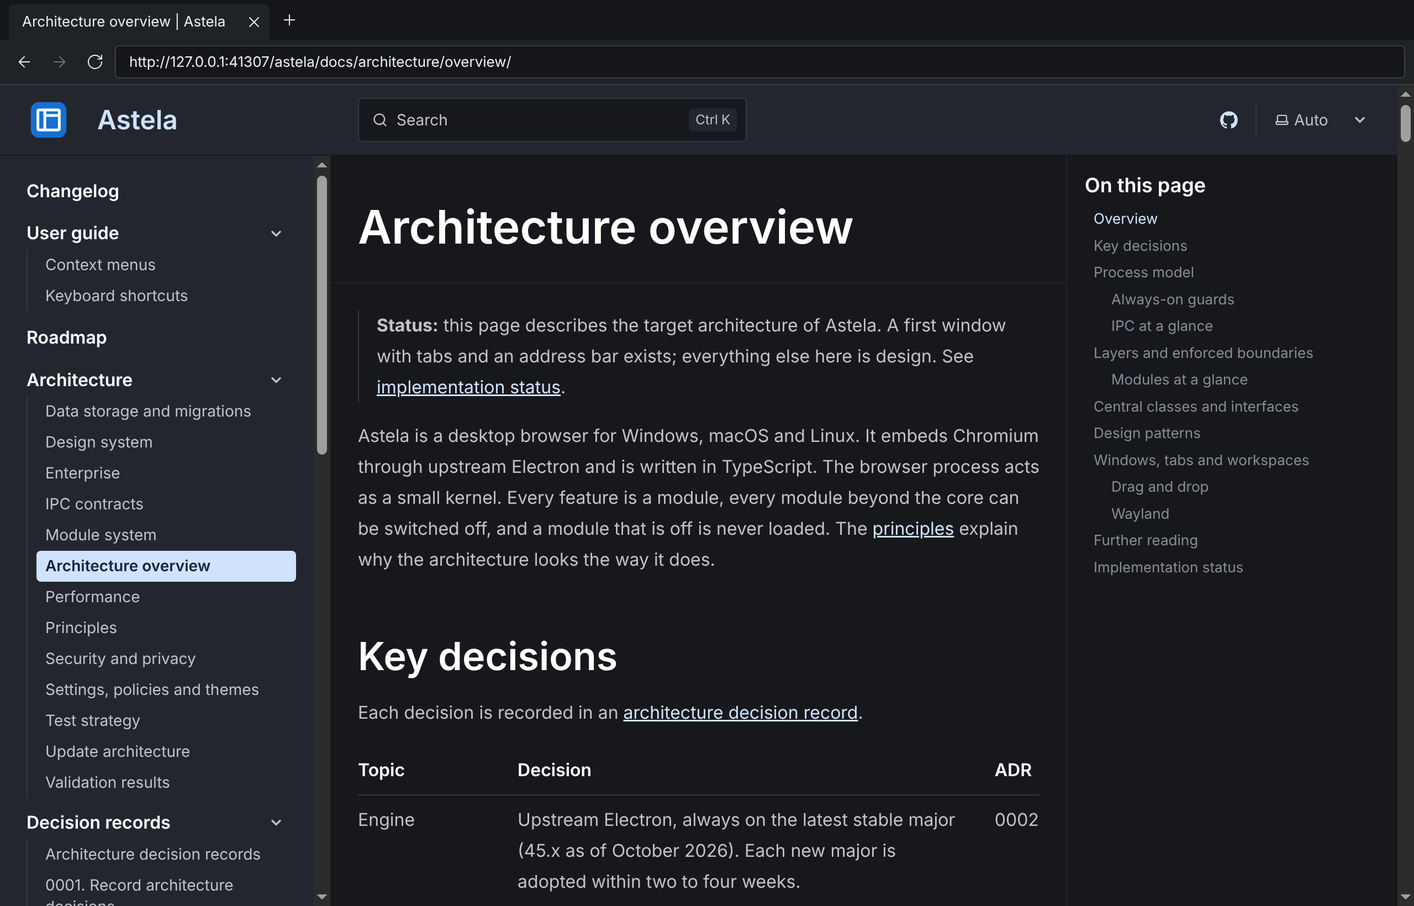
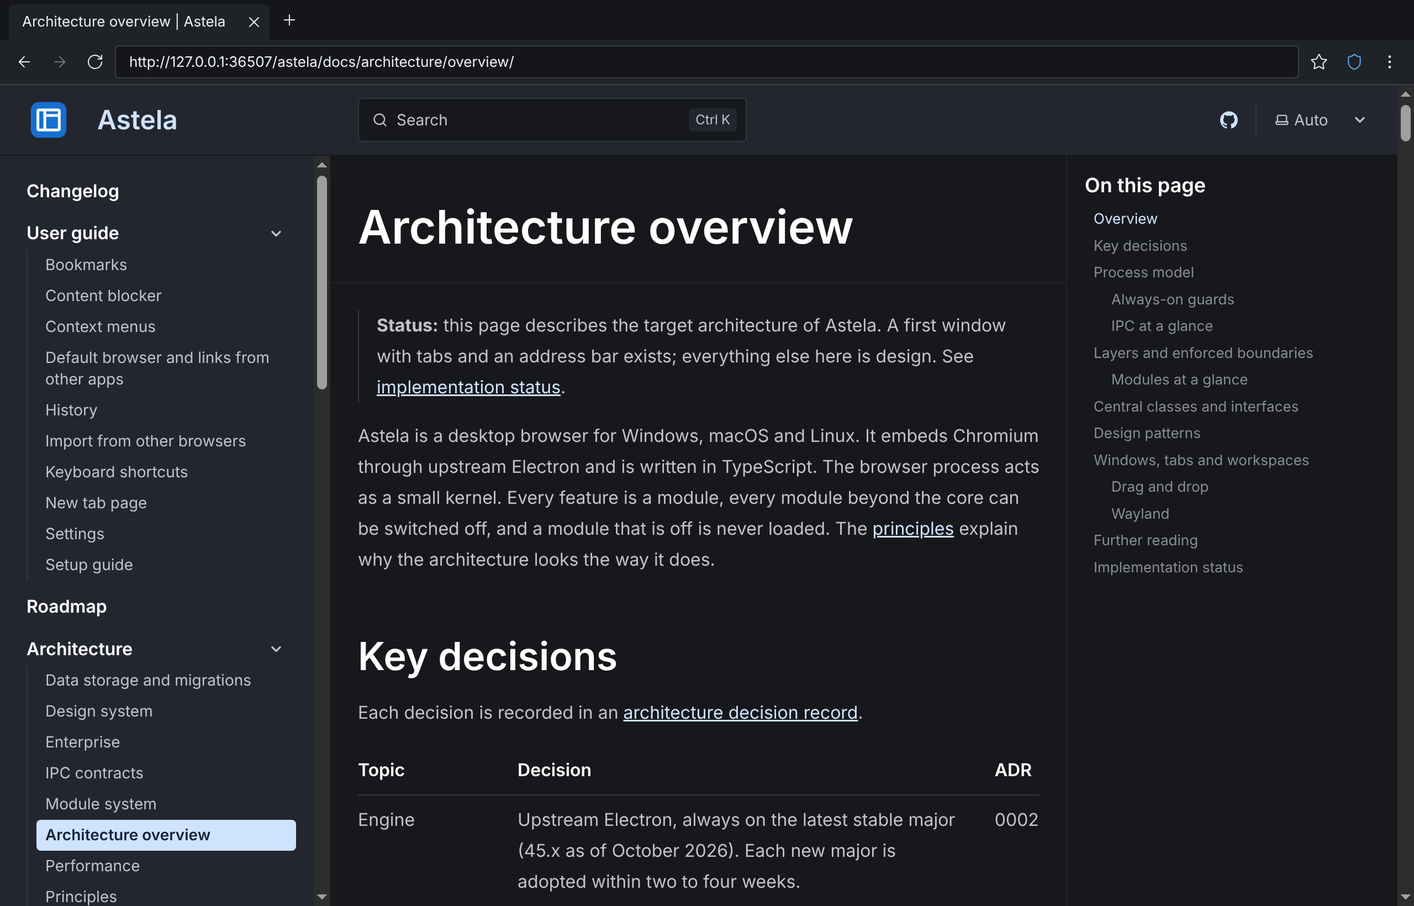
chore(release): v0.1.0-beta.3 (#66)

diff --git a/docs/architecture/overview.md b/docs/architecture/overview.md
@@ -1,6 +1,6 @@
 # Architecture overview
 
-> **Status:** this page describes the target architecture of Astela. A first window with tabs and an address bar exists; everything else here is design. See [implementation status](#implementation-status).
+> **Status:** this page describes the target architecture of Astela. Windows with tabs, the browser's own pages, the data service and the content blocker exist; the overlay view, workspaces and tab groups are still design. See [implementation status](#implementation-status).
 
 Astela is a desktop browser for Windows, macOS and Linux. It embeds Chromium through upstream Electron and is written in TypeScript. The browser process acts as a small kernel. Every feature is a module, every module beyond the core can be switched off, and a module that is off is never loaded. The [principles](principles.md) explain why the architecture looks the way it does.
 
@@ -51,7 +51,7 @@ flowchart LR
 - **Browser process (Electron main):** the kernel. It owns the lifecycle, windows, tabs (`WebContentsView`), sessions and partitions, the network pipeline, settings, policies and updates. It stays lean: blocking work such as SQLite access, hashing and imports runs in a `utilityProcess`.
 - **Shell view (one renderer per window):** the entire browser interface as class-based web components, loaded from the privileged scheme `app://shell`. It runs sandboxed with `contextIsolation` and a minimal preload that exposes a typed bridge, never a generic `ipcRenderer`.
 - **Overlay view (lazy):** a transparent `WebContentsView` above the web content for menus, the command palette, omnibox suggestions and permission prompts. It solves the z-order problem that web views always sit above the shell's DOM. The overlay is created on first use and attached to the view tree **only while something is open**, because views are neither click-through nor focus-neutral. When it closes, the browser process returns focus to the page. Context menus are native (`Menu.popup()`).
-- **Tab views:** web content, sandboxed, with site isolation and **without a preload**; the one planned exception is the content blocker's frame preload (M2, see [IPC](ipc.md)). Feature scripts, such as the reader view, run only on demand in an isolated world. Mouse gestures use input events in the browser process instead of scripts injected into the page.
+- **Tab views:** web content, sandboxed, with site isolation and **without a preload**; the one exception is the content blocker's frame preload, which every web session registers for all its frames ([ADR 0028](../adr/0028-content-blocker-rules-through-a-frame-preload.md)). Feature scripts, such as the reader view, run only on demand in an isolated world. Mouse gestures use input events in the browser process instead of scripts injected into the page.
 - **Internal pages** (`app://settings`, `app://history`, `app://downloads`, `app://theme-editor`, `app://diagnostics`, `app://newtab`): regular tabs with a capability-based preload. Each page receives only the IPC channels it needs.
 - **Data service (`utilityProcess`):** SQLite, full-text search, favicons and import. It starts lazily and talks to the browser process over a `MessagePort`. See [data](data.md).
 - **Updates:** electron-updater runs in the browser process with asynchronous I/O. Verifying the Ed25519 signature of the feed takes microseconds. See [updates](updates.md).
@@ -409,9 +409,13 @@ Wayland does not let applications position their windows. A torn-off window is t
 
 The first browser window works end to end:
 
-- **Process model:** one `BaseWindow` per window with a shell view (`app://shell`) and one `WebContentsView` per tab, created when the tab first becomes active. A window appears at once in the background color of the theme and the shell paints into it; a hidden window would load the shell at a lower priority. Web content and the browser's own pages use separate sessions. New tabs open on the new tab page (`app://newtab/`), an internal page in a view of the internal session with a search field for the chosen search engine. When a tab switches between a web page and an internal page, its view is replaced and the old view's history is kept, so Back from the first web page returns to the new tab page ([ADR 0026](../adr/0026-internal-pages-share-tabs-with-web-pages.md)). The first start of a profile opens the [setup guide](../user/setup-guide.md) (`app://setup`) instead of the new tab page, once per profile. The menu button at the end of the toolbar opens the browser menu, a native menu with New tab and Settings; the [settings page](../user/settings.md) (`app://settings`) opens in the tab that shows it already, in place of a new tab page, or in a new tab.
-- **Shell:** tab strip on top, back, forward and reload buttons, and an address bar that tells URLs from searches (`app/src/ui/shell/`). The [keyboard shortcuts](../user/keyboard-shortcuts.md) for tabs, history, reload and the address bar follow the conventions of each system and work in the shell and in web content (`app/src/platform/electron/shortcuts.ts`). The browser process sees each key before the page, so no default shortcut is a key that edits text. The back and forward buttons of a mouse work over the page and over the toolbar.
+- **Process model:** one `BaseWindow` per window with a shell view (`app://shell`) and one `WebContentsView` per tab, created when the tab first becomes active. A window appears at once in the background color of the theme and the shell paints into it; a hidden window would load the shell at a lower priority. Web content and the browser's own pages use separate sessions. New tabs open on the new tab page (`app://newtab/`), an internal page in a view of the internal session with a search field for the chosen search engine. When a tab switches between a web page and an internal page, its view is replaced and the old view's history is kept, so Back from the first web page returns to the new tab page ([ADR 0026](../adr/0026-internal-pages-share-tabs-with-web-pages.md)). The first start of a profile opens the [setup guide](../user/setup-guide.md) (`app://setup`) instead of the new tab page, once per profile. The menu button at the end of the toolbar opens the browser menu, a native menu with New tab, History, Bookmarks and Settings; the [settings page](../user/settings.md) (`app://settings`) opens in the tab that shows it already, in place of a new tab page, or in a new tab.
+- **Shell:** the tab strip at the top or bottom or as a list on the left or right, back, forward and reload buttons, an address bar that tells URLs from searches, the bookmark star, the content blocker's shield, the menu button and the optional bookmarks bar (`app/src/ui/shell/`). The [keyboard shortcuts](../user/keyboard-shortcuts.md) for tabs, history, reload and the address bar follow the conventions of each system and work in the shell and in web content (`app/src/platform/electron/shortcuts.ts`). The browser process sees each key before the page, so no default shortcut is a key that edits text. The back and forward buttons of a mouse work over the page and over the toolbar.
 - **Composition root:** `app/src/main/bootstrap.ts` wires the first services by hand. It moves onto the dependency injection container and the module host with the first feature module.
 - **Context menus:** native menus (`Menu.popup()`) for links, images, selected text, text fields and the page itself, and for the address bar; see the [user guide](../user/context-menus.md). A pure function in `app/src/domain/context-menu/` describes each menu from Chromium's context menu parameters, the texts and the platform, and has unit tests. `app/src/main/context-menu.ts` shows the description and carries out the commands on the view that was clicked; it loads with the first context menu, not before the first window. The texts come from the browser process's own catalogs in `app/src/main/i18n/`, which ship the same languages as the shell, follow the system language like the shell and share its translator in `app/src/shared/i18n/`. They mark an access key for Windows and Linux, and macOS gets English in title case. Tabs opened from a menu take the same path and the same http and https rule as tabs that pages open; tabs opened in the background line up after the page in the order they were opened. The menus have no Inspect item, because no setting or policy for the developer tools (`DeveloperToolsAvailability`) exists yet; on macOS, the View menu of the menu bar already offers Toggle Developer Tools.
+- **Data service:** a utility process owns `profile.db` with the history and the bookmarks and runs the import from other browsers; it starts with the first data access: the first web page, the bookmarks bar, the history or bookmarks page, or the list of other browsers in the settings and the setup guide. See [data storage](data.md) and [ADR 0029](../adr/0029-import-from-other-browsers-in-the-data-service.md).
+- **Session:** the windows and tabs are kept in `session.json` and restored at the next start; restored tabs get their view when they are first shown.
+- **Content blocker:** one request pipeline per web session blocks requests with the filter engine, and a frame preload applies element hiding rules and scriptlets in every frame ([ADR 0027](../adr/0027-blocker-with-the-default-lists-of-ublock-origin.md), [ADR 0028](../adr/0028-content-blocker-rules-through-a-frame-preload.md)).
+- **Links from other apps:** links on the command line, from a second start and from `open-url` events open in tabs; the Windows installer registers the browser for web links ([ADR 0030](../adr/0030-default-browser-and-links-from-other-apps.md)).
 
-Not implemented yet: the overlay view, workspaces, tab groups, drag and drop, and the data-service process.
+Not implemented yet: the overlay view, workspaces, tab groups and drag and drop.

diff --git a/docs/architecture/data.md b/docs/architecture/data.md
@@ -1,6 +1,6 @@
 # Data storage and migrations
 
-> **Status:** partly implemented. Settings and logs are stored as described; the rest of this page is design. See [implementation status](#implementation-status).
+> **Status:** partly implemented. Settings, logs, and the history and bookmarks of the data service are stored as described, and the session in a simpler form; the rest of this page is design. See [implementation status](#implementation-status).
 
 Astela keeps all user data local, in a small number of well-defined stores. Updates must never destroy data: every store has its own schema version, every migration is preceded by a snapshot, and an older app version never writes data it does not understand. The decision record is ADR 0009 (storage with node:sqlite); see the [decision record index](../adr/README.md).
 
@@ -95,9 +95,9 @@ Implemented in `app/src/platform/node/`:
 - **Settings:** `settings.json` with `$schemaVersion` 1, written atomically (temporary file, flush, rename) and debounced, flushed on quit. Invalid values go to `settings.rejected.json`; a file that cannot be parsed is moved aside instead of overwritten.
 - **Logs:** JSON Lines in `logs/`, rotating at 5 MB × 3 files.
 - **Web data:** the `persist:default` partition; cookies and storage are flushed on quit.
-- **Session:** `session.json` keeps the windows with their tabs (address and title) and the active tab, written atomically one second after the last change and on quit; the previous file stays as `session.json.bak` and is read when the current one is broken. The next start restores it when the setting `startup.page` is `restore`, the default: only the active tab of each window loads, the others when they are first shown. After the last window closes, the session keeps that window. The setup guide is never restored, and navigation entries, groups and workspaces are not kept yet.
+- **Session:** `session.json` keeps the windows with their tabs (address and title) and the active tab, written atomically at most once a second while tabs change, and on quit; the previous file stays as `session.json.bak` and is read when the current one is broken. The next start restores it when the setting `startup.page` is `restore`, the default: only the active tab of each window loads, the others when they are first shown. After the last window closes, the session keeps that window. The setup guide is never restored, and navigation entries, groups and workspaces are not kept yet.
 
-- **Data service:** `profile.db` belongs to the `data-service` utility process (`app/src/main/data-service.ts`), which the browser process starts with the first data access, such as the first web page, and talks to through messages (`app/src/platform/electron/data-service-client.ts`). `node:sqlite` runs there in WAL mode with foreign keys on; the browser process never touches SQLite. The schema (`app/src/platform/data/profile-db.ts`) has the history (`places` with an FTS5 index kept current by triggers) and the bookmarks with the bookmarks bar and the other bookmarks as roots. The browser process keeps only the set of bookmarked addresses, for the star in the address bar (`app/src/main/bookmarks.ts`); it loads with the first web page that a tab shows, or when the bookmarks bar shows, so a window that shows only the browser's own pages does not start the service. The import from other browsers runs in the same service (`app/src/platform/import/`): it finds the profiles of Chromium- and Firefox-based browsers, reads copies of their databases and writes bookmarks and history through the profile database ([ADR 0029](../adr/0029-import-from-other-browsers-in-the-data-service.md)). Migrations are numbered steps in one transaction each; before one runs on an existing database, `VACUUM INTO` writes `profile.db.v<version>.bak`, and a database from a newer version is opened read-only. On 2026-11-01 on Linux, the running service added about 23 MB of PSS to the browser (spike S3).
+- **Data service:** `profile.db` belongs to the `data-service` utility process (`app/src/main/data-service.ts`), which the browser process starts with the first data access, such as the first web page, and talks to through messages (`app/src/platform/electron/data-service-client.ts`). `node:sqlite` runs there in WAL mode with foreign keys on; the browser process never touches SQLite. The schema (`app/src/platform/data/profile-db.ts`) has the history (`places` with an FTS5 index kept current by triggers) and the bookmarks with the bookmarks bar and the other bookmarks as roots. The browser process keeps a copy of the bookmark list, for the star in the address bar and for the bookmarks bar and its folder menus (`app/src/main/bookmarks.ts`); it loads with the first web page that a tab shows, or when the bookmarks bar shows. The history, bookmarks and settings pages and the import step of the setup guide start the service as well, when they first ask for data. The import from other browsers runs in the same service (`app/src/platform/import/`): it finds the profiles of Chromium- and Firefox-based browsers, reads copies of their databases and writes bookmarks and history through the profile database ([ADR 0029](../adr/0029-import-from-other-browsers-in-the-data-service.md)). Migrations are numbered steps in one transaction each; before one runs on an existing database, `VACUUM INTO` writes `profile.db.v<version>.bak`, and a database from a newer version is opened read-only. On 2026-11-01 on Linux, the running service added about 23 MB of PSS to the browser (spike S3).
 - **History:** every web page that a tab shows is recorded with its title; the history page (`app://history`) lists it by day, searches it by word prefixes and removes single pages or everything.
 
 Not implemented yet: three rotating backups of the session, keeping only the last two migration snapshots, golden-profile tests, themes on disk and the password vault.

diff --git a/CHANGELOG.md b/CHANGELOG.md
@@ -2,6 +2,28 @@
 
 All notable changes are listed here, newest first. Versions follow [Semantic Versioning](https://semver.org); prereleases (`-beta.N`) are published on the beta channel.
 
+## [0.1.0-beta.3] - 2026-11-01
+
+The third beta makes the browser usable for everyday testing: a setup guide, a new tab page, settings, a content blocker, history, bookmarks, the restore of the last session and the import from other browsers. Installed copies of 0.1.0-beta.2 receive it as an update, and the setup guide opens once after the update.
+
+### Features
+
+- Setup guide: on the first start of every profile, also after this update, a guide in the first tab sets the color mode and accent color, where the tabs are, the density and the bookmarks bar, the search engine, the import from other browsers, the content blocker and the default browser. Every choice applies at once, every step can be skipped, and the settings page opens the guide again.
+- New tab page: new tabs show a start page with a search field for the chosen search engine.
+- Settings page: the color mode (System, Light or Dark), the accent color from presets or any color, the density, the tab strip at the top, bottom, left or right, the bookmarks bar, what opens on startup, the search engine (DuckDuckGo, Google, Bing, Startpage, Ecosia, Brave Search, Qwant or a custom search address), the content blocker, the default browser and the import. Settings that a policy sets are shown as managed. The menu at the right end of the toolbar opens the settings, the history and the bookmarks.
+- Content blocker: blocks ads and trackers with the filter lists that uBlock Origin enables by default, except Peter Lowe's list, whose terms do not allow redistribution, including their element hiding rules and scriptlets, also in frames. It is on by default; the shield in the address bar shows how many requests it blocked on a page, and its menu turns it off for a site.
+- Session restore: the browser reopens the windows and tabs of the last session; restored tabs load when they are first shown.
+- History: the history page lists the visited pages by day, finds them by words of their title or address, and removes single pages or all of them.
+- Bookmarks: the star in the address bar bookmarks a page (Ctrl+D, or Command+D on macOS); the bookmarks page organizes bookmarks in folders; the bookmarks bar shows them below the toolbar (Ctrl+Shift+B, or Command+Shift+B on macOS).
+- Import: bookmarks, history and open tabs from Google Chrome, Microsoft Edge, Brave, Vivaldi, Opera, Chromium, Firefox, Zen, LibreWolf, Floorp and Waterfox, with one click per profile, while the other browser keeps running. Open tabs come from Firefox-based browsers.
+- Default browser: links from other apps open in a new tab of the window used last, and the browser can become the default browser on Windows, macOS and Linux, except as an AppImage or an MSI installation.
+- Policies: `ContentBlockerEnabled`, `TabStripPosition`, `BookmarkBarEnabled`, `SetupGuideEnabled`, `ImportEnabled` and `DefaultBrowserSettingEnabled`.
+
+### Performance
+
+- The policies are read while Electron starts instead of before, which shortens the start on Windows.
+- The bundles leave out documentation comments, and code that only some starts need, such as the update feed, loads when it is needed, so less code loads at the start.
+
 ## [0.1.0-beta.2] - 2026-11-01
 
 The second beta adds context menus and the keyboard shortcuts that are usual on each system. Installed copies of 0.1.0-beta.1 receive it as an update: through the update feed for the Windows installer, the AppImage and macOS, and with the system updates for deb and rpm packages.

diff --git a/docs/architecture/updates.md b/docs/architecture/updates.md
@@ -1,6 +1,6 @@
 # Update architecture
 
-> **Status:** partly implemented. Signed updates work for NSIS, AppImage and macOS, with rollback for NSIS and AppImage, and the package repositories for deb and rpm are built and tested; the release pipeline is design. See [implementation status](#implementation-status).
+> **Status:** partly implemented. Signed updates work for NSIS, AppImage and macOS, with rollback for NSIS and AppImage, and the package repositories for deb and rpm are built and tested; the release pipeline publishes every release. See [implementation status](#implementation-status).
 
 Astela is designed to update itself on every supported platform without dialogs. A signed feed decides _what_ gets installed. Depending on the package format, electron-updater, the operating system's package manager or the IT department decides _how_ it gets installed. The decision records are ADR 0014 (update architecture with a signed feed) and ADR 0015 (Linux package repositories); see the [decision record index](../adr/README.md).
 
@@ -293,4 +293,4 @@ The update path for NSIS, AppImage and macOS is implemented:
 - **Package scripts** (`app/build/linux/`): after installation, the deb or rpm package registers the repository of its channel once, with the key it ships; `ASTELA_NO_REPO=1` skips this and `ASTELA_REPO_URL` points at a mirror. Removing the package removes the repository again. Packages ship the repository key from `app/build/keys/linux-repo.pub.asc`.
 - **Repository test:** the `linux-repos` CI job installs `0.0.1-beta.1` from its file on Ubuntu 22.04 and 24.04, Debian 12 and 13 and the two latest Fedora releases, upgrades to `0.0.1-beta.2` and to `0.0.1` through the repositories, and removes the package.
 
-Not implemented yet: the rollback on macOS, restoring data snapshots (no data migrations exist yet), the update indicator, the "Restart to update" entry and the idle installation, the status on the About and diagnostics pages, the "What's new" note, the mirror tool, the macOS updater test, and code signing for Windows and with an Apple Developer ID.
+Not implemented yet: the rollback on macOS, restoring data snapshots (a rollback does not bring back the `profile.db.v<version>.bak` copy that a migration of the profile database writes), the update indicator, the "Restart to update" entry and the idle installation, the status on the About and diagnostics pages, the "What's new" note, the mirror tool, the macOS updater test, and code signing for Windows and with an Apple Developer ID.

diff --git a/docs/roadmap.md b/docs/roadmap.md
@@ -1,6 +1,6 @@
 # Roadmap
 
-> **Status:** `0.1.0-beta.1`, the walking skeleton below, was the first release; `0.1.0-beta.2` adds context menus and the keyboard shortcuts of each system and proved the live update from `0.1.0-beta.1`. Everything after it is still a plan; scope and order may change as the work progresses.
+> **Status:** `0.1.0-beta.1`, the walking skeleton below, was the first release; `0.1.0-beta.2` adds context menus and the keyboard shortcuts of each system and proved the live update from `0.1.0-beta.1`; `0.1.0-beta.3` adds the setup guide, the new tab page, settings, the content blocker, history, bookmarks, session restore and the import from other browsers. Everything after it is still a plan; scope and order may change as the work progresses.
 
 ## Vision
 
@@ -163,8 +163,9 @@ The third beta brings two features forward from later milestones: the content bl
 - **Appearance:** color mode, accent color, density, and the tab strip at the top, bottom, left or right.
 - **Search engines:** Google, Bing, DuckDuckGo, Startpage, Ecosia, Brave Search, Qwant and custom engines.
 - **Data:** the data service with history, bookmarks and session restore.
-- **Import:** bookmarks, history and open tabs from Chromium-based and Firefox-based browsers, with one click.
-- **Content blocker:** on by default and switchable per site, with the filter lists that uBlock Origin enables by default and its scriptlets.
+- **Import:** bookmarks and history from Chromium-based and Firefox-based browsers, and open tabs from Firefox-based ones, with one click.
+- **Content blocker:** on by default and switchable per site, with the filter lists that uBlock Origin enables by default, except Peter Lowe's list, and its scriptlets.
+- **Bookmarks bar and default browser:** the bookmarks bar below the toolbar; links from other apps open in a new tab, and the browser can become the default browser.
 
 Saved passwords, autofill and the import of passwords follow in `0.1.0-beta.4`.
 

diff --git a/docs/architecture/principles.md b/docs/architecture/principles.md
@@ -1,6 +1,6 @@
 # Principles
 
-> **Status:** these principles apply to every design decision, pull request and review. Astela is in early development; nothing described here is released yet.
+> **Status:** these principles apply to every design decision, pull request and review. Astela is in early development; its betas are released for testing.
 
 Astela aims to be a browser that feels like your own tool: it starts instantly, uses little memory and adapts to the way you work. Apart from that, it leaves you alone. Eight principles turn that vision into rules that can be checked.
 
@@ -24,7 +24,7 @@ The browser does not interrupt. Modal dialogs are reserved for security decision
 
 ### 5. Private by default
 
-There is no telemetry, and no account is required. A content blocker is part of the browser (planned for M2, see the [roadmap](../roadmap.md)). Data stays on the device, and secrets are kept in the operating system's key store.
+There is no telemetry, and no account is required. A content blocker is part of the browser and on by default, from 0.1.0-beta.3 (see the [roadmap](../roadmap.md)). Data stays on the device, and secrets are kept in the operating system's key store.
 
 ### 6. Manageable
 

diff --git a/README.md b/README.md
@@ -2,7 +2,7 @@
 
 A desktop browser for Windows, macOS and Linux, built on Chromium through Electron and written in TypeScript. It has no telemetry, no ads, no sponsored tiles, no news feed and needs no account.
 
-> **Status:** early development. The current beta, 0.1.0-beta.2, is on the [releases page](https://github.com/Secoolioo/astela/releases); the [roadmap](docs/roadmap.md) lists every milestone.
+> **Status:** early development. The current beta, 0.1.0-beta.3, is on the [releases page](https://github.com/Secoolioo/astela/releases); the [roadmap](docs/roadmap.md) lists every milestone.
 
 <picture>
   <source media="(prefers-color-scheme: dark)" srcset="assets/screenshots/screenshot-dark.png">
